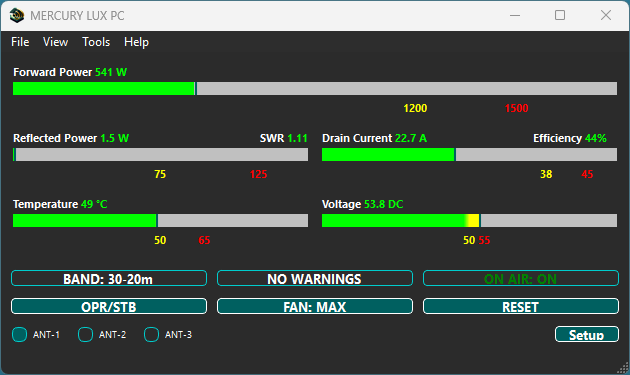
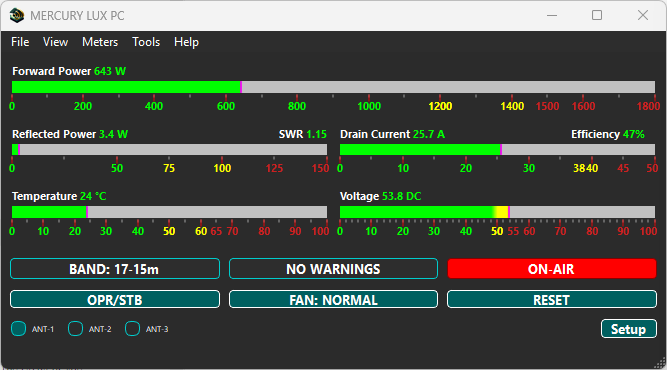
v0_3_0 update

diff --git a/CHANGELOG.md b/CHANGELOG.md
@@ -2,6 +2,51 @@
 
 All notable changes to this project will be documented in this file.
 
+## [0.3.0-beta] - 2025-09-10
+
+### ✨ Features
+- Added **meter modes**: Live, Peak, Hold, None — freeze or follow peaks just like a true peak meter.
+- **CW-friendly polling** with tunable intervals, reducing PTT delay in CW operation.
+- **Automatic serial reconnect** when the Mercury LUX amplifier is powered back on (no user interaction required).
+- Improved **On-Air notification styling** (bold white on red, fixed size).
+- **Hide/show meter ticks and tick labels** for a cleaner or more detailed display.
+- **Alarm codes mapped to friendly names** from the user manual for easier troubleshooting.
+- Added **EMA smoothing option** for meter updates, improving readability of fast-changing signals.
+
+### 🛠 Improvements
+- **Cadence-based updates** to PowerBar text and bar values, making SSB and CW signals easier to follow.
+- Tick labels now **color-coded** (green/yellow/red) according to thresholds.
+- Peak marker **decay scales with meter range** for consistent responsiveness across meters.
+- **App Scale Factor** now properly persists after Save and restart.
+- **Light theme readability improvements** (green/yellow text fixed).
+- **TLS certificate generation** handling improved — clearer errors if OpenSSL or config missing.
+
+### 🐞 Fixes
+- Fixed **black window issue** when restoring from “Show Desktop” on Windows.
+- Fixed TLS errors when **OpenSSL was not found or config file missing**.
+- Fixed **tick label overlap/cutoff** (e.g., at 1800 W).
+- Fixed **bar/value disappearing** in None meter mode.
+- Fixed **App Scale Factor reset** bug after Save.
+- Fixed client app showing stale meter values when server was closed — meters now clear and state updates immediately.
+
+⚠ **Notes for power users:**
+Advanced meter and comm parameters (e.g., hold/decay rates, polling intervals) are not exposed in the GUI, but can be tuned via the settings file (or Registry on Windows).
+
+---
+
+## [v0.2.0-beta] – 2025-08-xx
+
+### Added
+- Initial implementation of peak hold with cadence smoothing on power meters.
+- Dynamic tick label placement and spacing improvements.
+- Enhanced TLS certificate generator handling for Windows and Linux.
+- User theme options: Light/Dark modes with font scaling support.
+
+### Fixed
+- Light theme readability issues for yellow/green colors.
+- Taskbar submenu behavior when restoring from “Show Desktop”.
+
+
 ---
 
 ## [v0.1.0-beta] – 2025-07-17
@@ -14,7 +59,7 @@ All notable changes to this project will be documented in this file.
 
 ### Known Issues
 - macOS Gatekeeper warning (requires manual override in **System Settings → Security & Privacy**)
-- Not all warning codes map to friendly name when amp goes into alarm
+- No automatic update mechanism yet
 
 ### Download Links
 Go to [Releases](https://github.com/RayJr2/MercuryXPc/releases) to download the latest builds.
